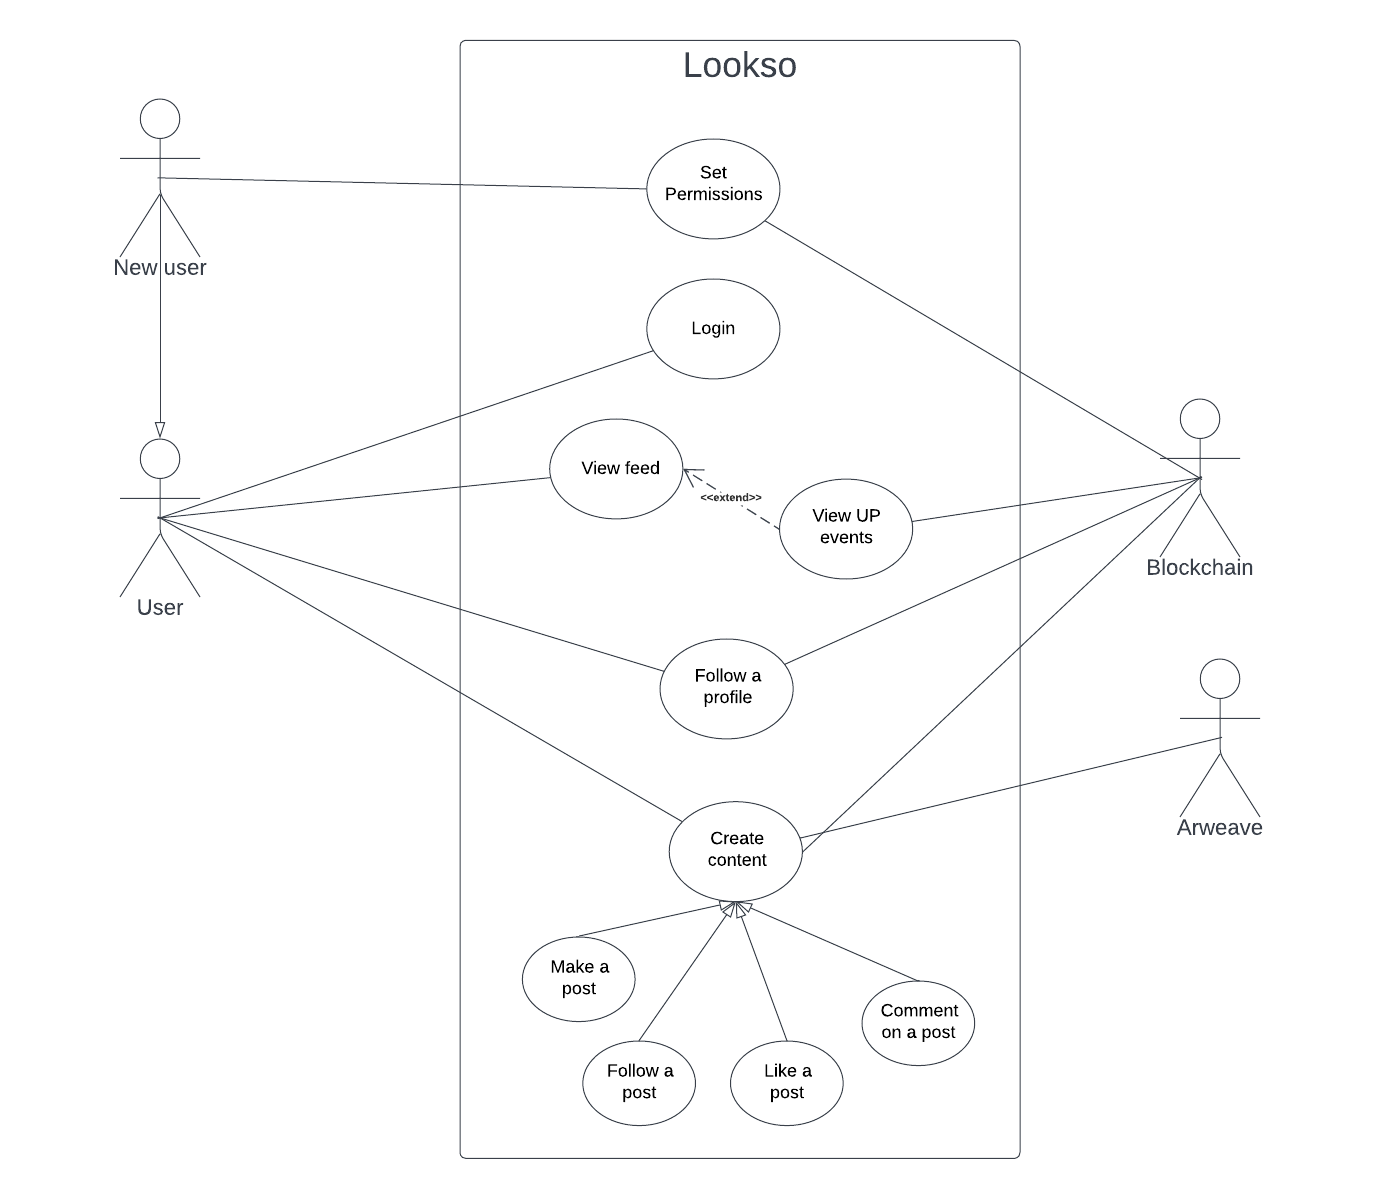
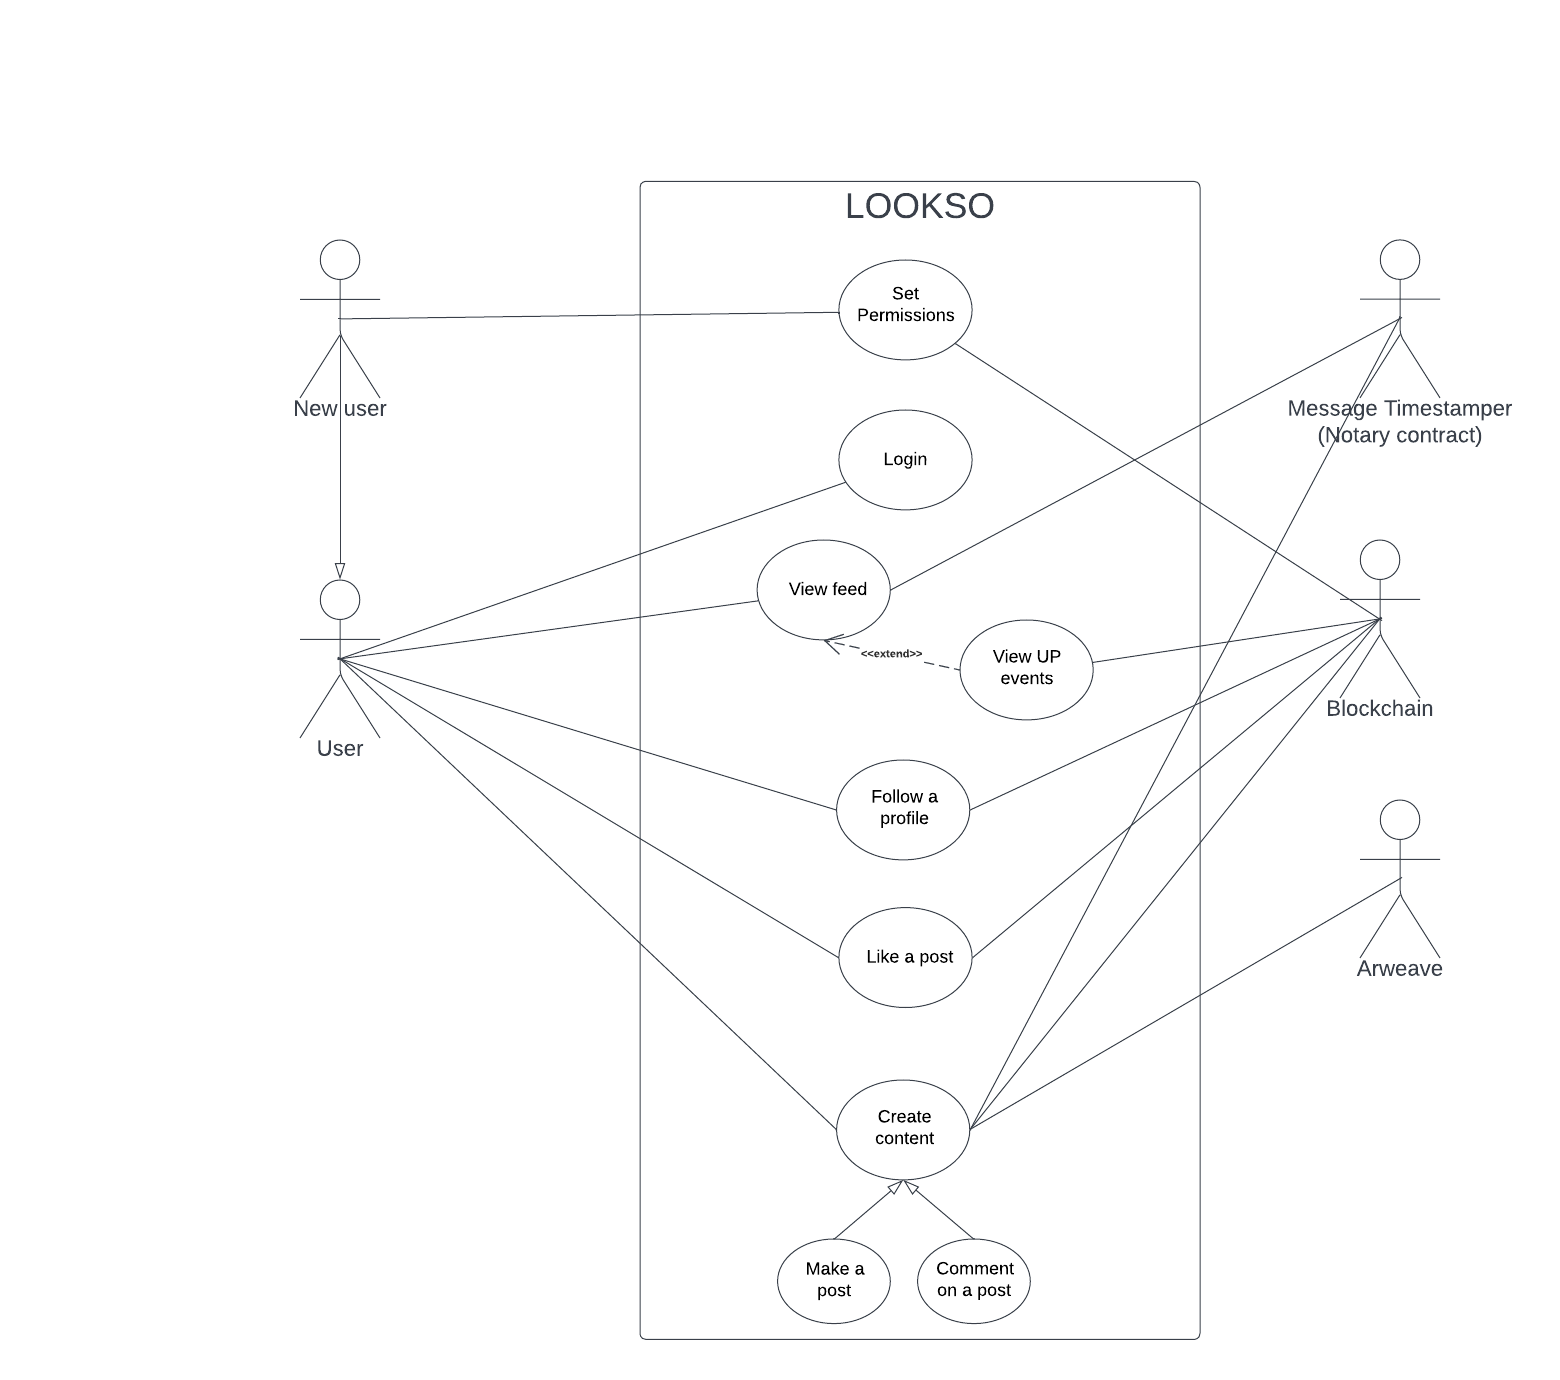
New sections added to Readme

diff --git a/docs/README.md b/docs/README.md
@@ -3,7 +3,6 @@
 LOOKSO is a Twitter like social media feed where users post messages and interact using Universal Profiles. It combines user-generated content with a digest of relevant events emmited by Universal Profile contracts in the blockchain. This feed is a valuable addition to block explorers and allows the users to not only follow their favorite NFT collections, artists or investors, but also to comment on their events.
 
 
-
 ## Architecure
 
 LOOKSO leverages decentralized storage to minimize gas costs and allow media content like images and videos to be attached to messages. Every message, like and follow is saved in the Arweave blockchain and a single registry is kept updated for each address. This registry is nothing more than a JSON object.
@@ -12,12 +11,77 @@ On the Universal Profile of the user, only the registry is stored. This [registr
 
 ![LOOKSO Architecture Overview](img/arch_overview.jpg)
 
-There is a third actor whose role is to provide a reliable timestamp for the messages stored. It is a [validator](#Validator) smart contract on the LUKSO blockchain that can be called to append a timestamp to the message hash and save it in storage for future validation.
+There is a third actor whose role is to provide a reliable timestamp for the messages in the network. It is a [validator](#Validator) smart contract on the LUKSO blockchain and can be called to append a timestamp to the message hash and save it in its own [ERC725Y](https://github.com/ethereum/EIPs/blob/master/EIPS/eip-725.md#erc725y) storage for future validation.
+
+All the data is indexed in a local database and served as an [API] (https://api.lookso.io/documentation/static/index.html) to speed up and simplify the queries necessary to provide a consistent and fast user experience. 
+
+
+## The Timestamp Registry Contract
+
+```solidity
+// SPDX-License-Identifier: MIT
+
+pragma solidity ^0.8.7;
+
+import { Context } from "@openzeppelin/contracts/utils/Context.sol";
+import { ERC725YCore } from "@erc725/smart-contracts/contracts/ERC725YCore.sol";
+import { OwnableUnset } from "@erc725/smart-contracts/contracts/custom/OwnableUnset.sol";
+import { GasLib } from "@erc725/smart-contracts/contracts/utils/GasLib.sol";
+
+contract Validator is ERC725YCore(), Context {
+
+    constructor() {
+        OwnableUnset._setOwner(address(0)); // No owner needed
+    }
+
+    function validate(bytes32 contentHash) external {
+        require( getData(contentHash).length == 0, 
+            "Corresponding value for this hash is not null. Content has been added under this hash before.");
+        // Write to the Key-Value Storage.
+        setData(contentHash, bytes(abi.encodePacked(address(_msgSender()), bytes12(uint96(block.timestamp)))));
+    }
+
+    function setData(bytes32 dataKey, bytes memory dataValue) public virtual override {
+        _setData(dataKey, dataValue);
+    }
+
+    function setData(bytes32[] memory dataKeys, bytes[] memory dataValues)
+        public
+        virtual
+        override
+    {
+        require(dataKeys.length == dataValues.length, "Keys length not equal to values length");
+        for (uint256 i = 0; i < dataKeys.length; i = GasLib.uncheckedIncrement(i)) {
+            _setData(dataKeys[i], dataValues[i]);
+        }
+    }
+
+    function getTimestamp(bytes32 key) public view returns(bytes12) {
+        return bytes12(bytes32(this.getData(key)) << 160);
+    }
+
+    function getAddress(bytes32 key) public view returns (bytes20) {
+        return bytes20(this.getData(key));
+    }
+}
+
+```
+
+
+## Event scraping and translation
+
+One of the key features of the LOOKSO platform is that it scrapes blockchain events related to Universal Profiles and displays them in a user friendly way in its feed. This is a game-changer when it comes to visualizing what's happening on the network and interacting with it. 
+
+![Event translation on feed](img/event_post.jpg)
+
+You can comment, repost and like an event-based post like any other user-generated content. This feed will be hotter than ever 🔥!
+
+Events and their index parameters are saved on the database, alongside their translation and the Universal Profile that emitted them. 
 
 
 ## Registry
 
-The registry is saved under the (provisory) Key name of "LSPXXSocialRegistry". Here is the schema according to LSP2:
+The registry is saved under the (provisory) Key name of "LSPXXSocialRegistry". Here is the schema according to [LSP2](https://github.com/lukso-network/LIPs/blob/main/LSPs/LSP-2-ERC725YJSONSchema.md):
 
 ```JSON
 {
@@ -60,10 +124,10 @@ And here is an example of the registry file after decoding and fetching the JSON
 {
   "LSPXXProfilePost": {
     "version":"0.0.1",
-    "validator": "0x049bAfA4bF69bCf6FcB7246409bc92a43f0a7264",
     "message": "This is the first Lookso post.",
     "author": "0x742242E9572cEa7d3094352472d8463B0a488b80",
-    "nonce":
+    "validator": "0x049bAfA4bF69bCf6FcB7246409bc92a43f0a7264",
+    "nonce": "415665014",
     "links": [
       {
         "title": "Our website",
@@ -75,7 +139,8 @@ And here is an example of the registry file after decoding and fetching the JSON
[1 lines of base64/hex data omitted]
       "url": "ar://gkmVUoHE4Ay6ScIlgV4E7Fs1m13LfpAXSuwuRGRQbeA",
       "fileType": "jpg"
-    }
+    },
[1 lines of base64/hex data omitted]
   },
[2 lines of base64/hex data omitted]
@@ -90,6 +155,12 @@ This is an example of a post object.
 
 
 
+## Future improvements
+
+* Allow developers to add their own event translations so they can be displayed in a cool way
+* Refactor follows so that universalReceiver can be called and a UP can decide what to do in that situation
+* Add a relay service
+* Improve event translation (for ex. Profile metadata updated can display the before and after values)
 
 ### Blockchain
 Provides the censorship resistant fabric where users can store their connections and content can be referenced. The rules by which the social network shapes itself are written and enforced in the protocol, no one is able to cancel or 
